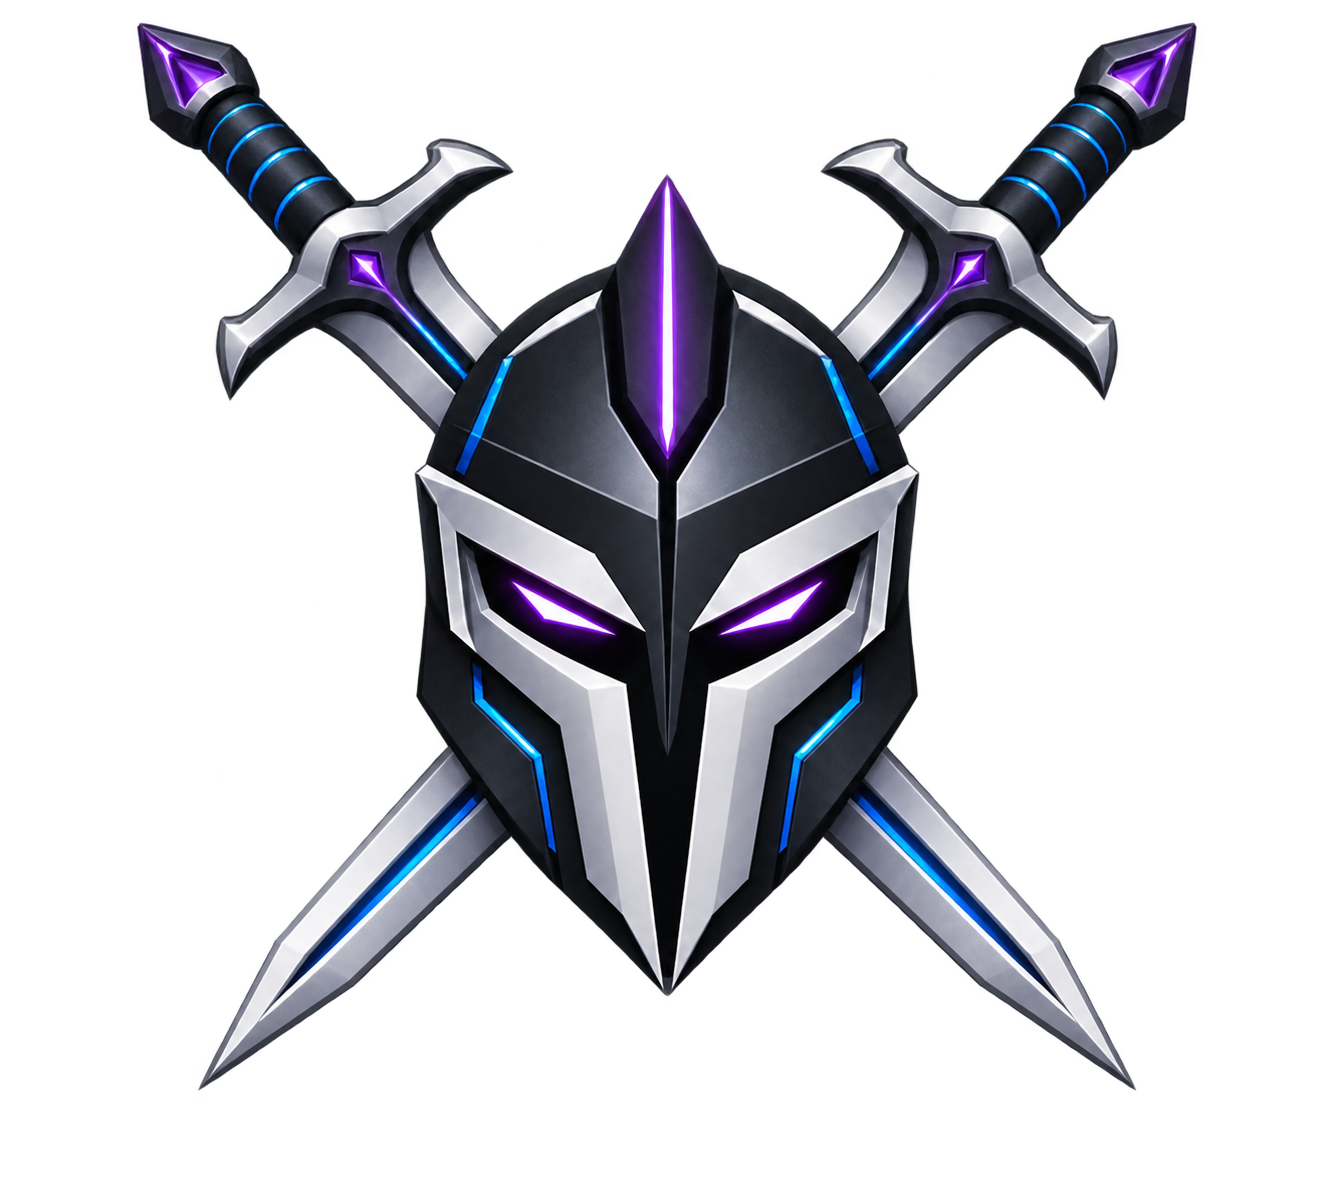
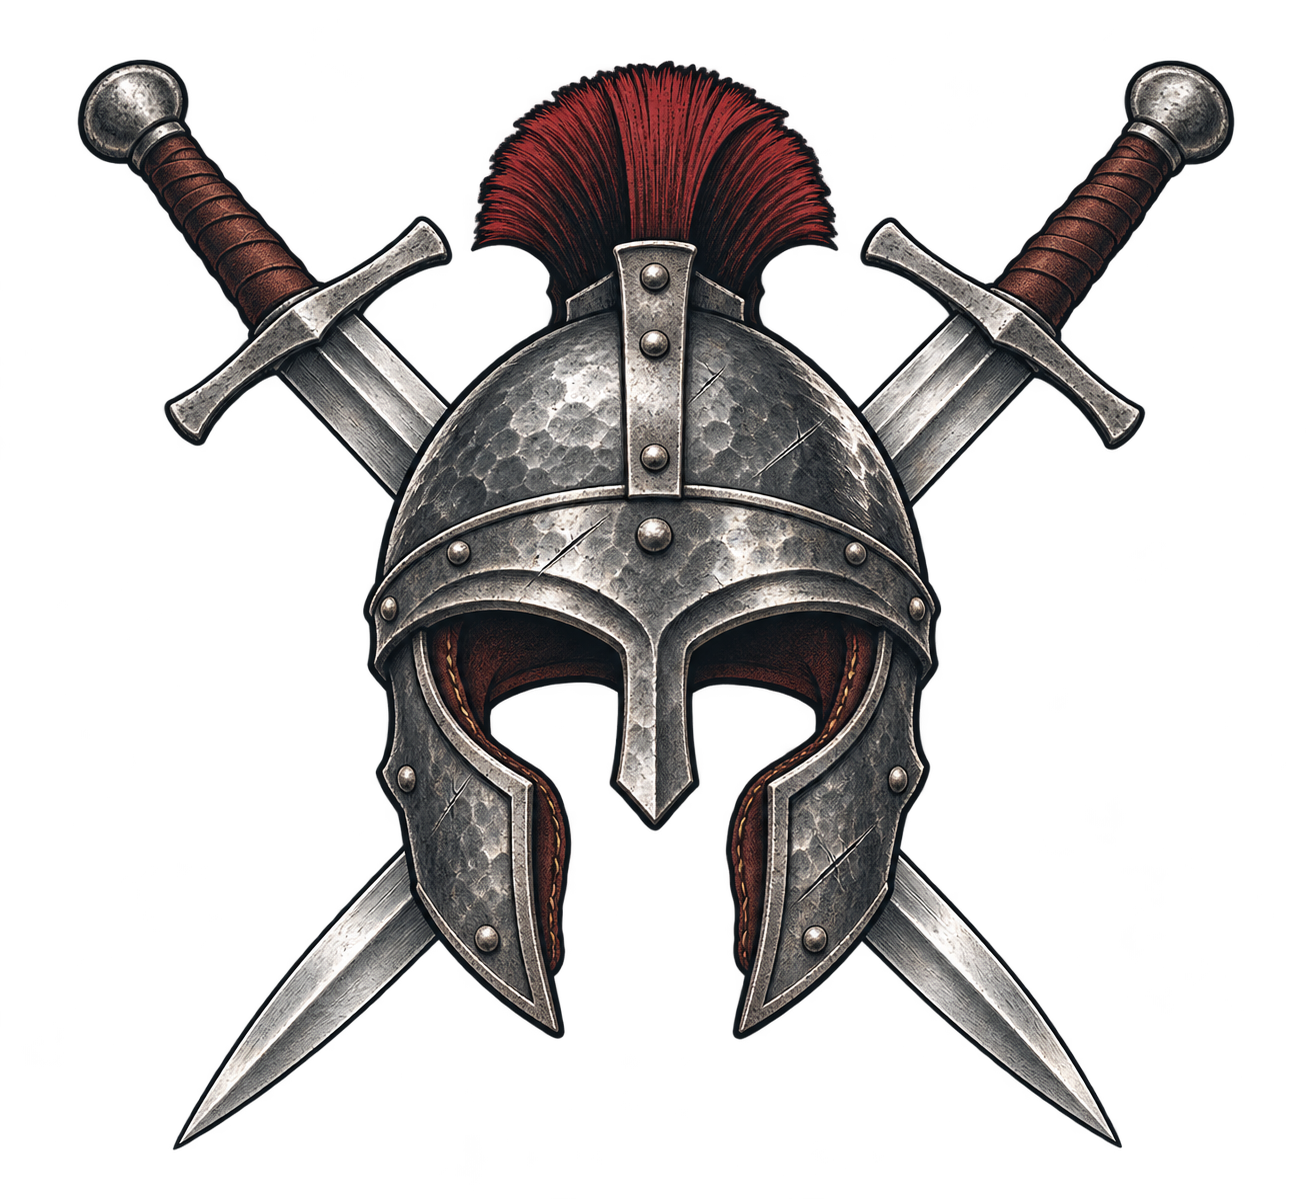
Replace GUARDIAN cyborg emblem with ancient steel crest

diff --git a/projects/fraudguard-community/demo/fraudguard/static/app.css b/projects/fraudguard-community/demo/fraudguard/static/app.css
@@ -1,8 +1,8 @@
 :root{color-scheme:dark;--void:#030014;--midnight:#060317;--carbon:#0d0a18;--steel:#24202f;--lilac:#f4f0ff;--ash:#a8a6b7;--violet:#9382ff;--violet-deep:#5046e4;--blue:#3f8cff;--red:#ff6f78;--amber:#ffbd70;--green:#62e6b2;--display:"Segoe UI Variable Display","Aptos Display","Inter",system-ui,sans-serif;--text:"Segoe UI Variable Text","Aptos","Inter",system-ui,sans-serif}
 *{box-sizing:border-box}html{background:var(--void)}body{margin:0;min-height:100vh;background:var(--void);color:var(--lilac);font:15px/1.55 var(--text);letter-spacing:-.015em;overflow-x:hidden}.sky{position:fixed;inset:0;pointer-events:none;background-image:radial-gradient(circle at 12% 18%,rgba(255,255,255,.7) 0 1px,transparent 1.5px),radial-gradient(circle at 71% 8%,rgba(147,130,255,.7) 0 1px,transparent 1.5px),radial-gradient(circle at 84% 41%,rgba(255,255,255,.45) 0 1px,transparent 1.5px),radial-gradient(circle at 31% 63%,rgba(63,140,255,.5) 0 1px,transparent 1.5px),radial-gradient(circle at 58% 77%,rgba(255,255,255,.35) 0 1px,transparent 1.5px);background-size:239px 251px,307px 281px,199px 227px,347px 313px,271px 293px;opacity:.3;mask-image:linear-gradient(to bottom,#000,transparent 72%)}
-.nav-wrap{position:relative;z-index:4;padding:22px 24px 0}.topbar{max-width:1180px;height:68px;margin:auto;padding:0 18px 0 12px;border:1px solid rgba(255,255,255,.09);border-radius:20px;background:rgba(6,3,23,.72);backdrop-filter:blur(20px);display:flex;align-items:center;justify-content:space-between;box-shadow:inset 0 -7px 20px rgba(147,130,255,.07)}.brand{display:flex;align-items:center;gap:11px;color:var(--lilac);text-decoration:none}.brand img{width:44px;height:44px;object-fit:contain;filter:drop-shadow(0 0 12px rgba(147,130,255,.28))}.brand strong{display:block;font:600 14px/1 var(--display);letter-spacing:.18em}.brand small{display:block;margin-top:5px;color:var(--ash);font-size:10px;letter-spacing:.08em}.privacy{display:flex;align-items:center;gap:8px;color:#d7d1e4;font-size:12px}.privacy i{width:7px;height:7px;border-radius:50%;background:var(--green);box-shadow:0 0 12px var(--green)}
+.nav-wrap{position:relative;z-index:4;padding:22px 24px 0}.topbar{max-width:1180px;height:68px;margin:auto;padding:0 18px 0 12px;border:1px solid rgba(255,255,255,.09);border-radius:20px;background:rgba(6,3,23,.72);backdrop-filter:blur(20px);display:flex;align-items:center;justify-content:space-between;box-shadow:inset 0 -7px 20px rgba(147,130,255,.07)}.brand{display:flex;align-items:center;gap:11px;color:var(--lilac);text-decoration:none}.brand img{width:44px;height:44px;object-fit:contain;filter:drop-shadow(0 0 12px rgba(156,48,62,.3))}.brand strong{display:block;font:600 14px/1 var(--display);letter-spacing:.18em}.brand small{display:block;margin-top:5px;color:var(--ash);font-size:10px;letter-spacing:.08em}.privacy{display:flex;align-items:center;gap:8px;color:#d7d1e4;font-size:12px}.privacy i{width:7px;height:7px;border-radius:50%;background:var(--green);box-shadow:0 0 12px var(--green)}
 .shell{position:relative;z-index:1;max-width:1180px;margin:auto;padding:70px 24px 110px}.hero{min-height:610px;display:grid;grid-template-columns:1.08fr .92fr;gap:54px;align-items:center}.hero-copy{position:relative;z-index:2}.eyebrow{margin:0 0 14px;color:#c1b6ff;font-size:11px;font-weight:600;letter-spacing:.16em;text-transform:uppercase}.eyebrow span{display:inline-block;width:28px;height:1px;margin:0 9px 3px 0;background:linear-gradient(90deg,transparent,var(--violet))}.hero h1{margin:0;max-width:720px;font:500 clamp(48px,6.7vw,86px)/.98 var(--display);letter-spacing:-.058em}.hero h1 em{font-style:normal;background:linear-gradient(90deg,#f3b9eb 0%,#a88fff 48%,#70b3ff 100%);-webkit-background-clip:text;background-clip:text;color:transparent}.lead{max-width:650px;margin:28px 0 24px;color:var(--ash);font-size:18px;line-height:1.6;letter-spacing:-.02em}.hero-notes{display:flex;gap:8px;flex-wrap:wrap}.hero-notes span{padding:7px 11px;border:1px solid rgba(147,130,255,.25);border-radius:999px;background:rgba(147,130,255,.06);color:#d9d2f7;font-size:11px;letter-spacing:.03em}
-.guardian-stage{position:relative;min-height:540px;border:1px solid rgba(255,255,255,.08);border-radius:28px;background:radial-gradient(circle at 50% 35%,rgba(80,70,228,.19),transparent 36%),linear-gradient(180deg,rgba(13,10,24,.72),rgba(0,0,0,.82));overflow:hidden;display:flex;flex-direction:column;align-items:center;justify-content:center;box-shadow:inset 0 0 70px rgba(147,130,255,.05)}.guardian-stage:before{content:"";position:absolute;inset:0;background:linear-gradient(110deg,transparent 35%,rgba(255,255,255,.035) 50%,transparent 65%);transform:translateX(-100%);animation:sweep 9s ease-in-out infinite}.guardian-stage img{position:relative;z-index:2;width:min(78%,390px);height:auto;filter:drop-shadow(0 28px 45px rgba(0,0,0,.55)) drop-shadow(0 0 18px rgba(147,130,255,.2))}.guardian-word{position:relative;z-index:2;margin-top:-18px;font:600 clamp(24px,3vw,40px)/1 var(--display);letter-spacing:.22em;text-indent:.22em;color:var(--lilac);text-shadow:0 0 30px rgba(147,130,255,.3)}.stage-meta{position:absolute;z-index:3;left:22px;right:22px;bottom:18px;display:flex;justify-content:space-between;color:#777189;font-size:9px;letter-spacing:.13em}.stage-meta strong{color:#b9afd9;font-weight:500}.orbit{position:absolute;left:50%;top:43%;border:1px solid rgba(147,130,255,.16);border-radius:50%;transform:translate(-50%,-50%) rotate(-13deg)}.orbit.one{width:78%;height:38%}.orbit.two{width:58%;height:62%;transform:translate(-50%,-50%) rotate(31deg)}@keyframes sweep{0%,70%{transform:translateX(-100%)}100%{transform:translateX(100%)}}
+.guardian-stage{position:relative;min-height:540px;border:1px solid rgba(255,255,255,.08);border-radius:28px;background:radial-gradient(circle at 50% 34%,rgba(132,39,52,.15),transparent 38%),linear-gradient(180deg,rgba(13,10,18,.78),rgba(0,0,0,.88));overflow:hidden;display:flex;flex-direction:column;align-items:center;justify-content:center;box-shadow:inset 0 0 70px rgba(255,255,255,.025)}.guardian-stage:before{content:"";position:absolute;inset:0;background:linear-gradient(110deg,transparent 35%,rgba(255,255,255,.025) 50%,transparent 65%)}.guardian-stage img{position:relative;z-index:2;width:min(80%,400px);height:auto;filter:drop-shadow(0 28px 45px rgba(0,0,0,.62)) drop-shadow(0 0 18px rgba(142,47,58,.2))}.guardian-word{position:relative;z-index:2;margin-top:-18px;font:600 clamp(24px,3vw,40px)/1 var(--display);letter-spacing:.22em;text-indent:.22em;color:var(--lilac);text-shadow:0 0 24px rgba(161,55,69,.22)}.stage-meta{position:absolute;z-index:3;left:22px;right:22px;bottom:18px;display:flex;justify-content:space-between;color:#777189;font-size:9px;letter-spacing:.13em}.stage-meta strong{color:#c3bdc8;font-weight:500}
 .section-intro{max-width:820px;margin:115px 0 30px}.section-intro h2{margin:0;font:500 clamp(34px,4.6vw,58px)/1.05 var(--display);letter-spacing:-.045em}.workspace{display:grid;grid-template-columns:1.15fr .85fr;gap:18px}.upload-card,.guide-card,.results,.login-card{position:relative;border:1px solid rgba(255,255,255,.08);border-radius:28px;background:rgba(6,3,23,.84);box-shadow:inset 0 1px rgba(255,255,255,.035);overflow:hidden}.upload-card,.guide-card{min-height:470px;padding:32px}.upload-card:after,.guide-card:after{content:"";position:absolute;left:12%;right:12%;bottom:0;height:1px;background:linear-gradient(90deg,transparent,var(--violet),transparent);opacity:.5}.card-top{display:flex;align-items:center;justify-content:space-between;margin-bottom:46px}.step{color:#817a96;font:500 12px/1 var(--display);letter-spacing:.12em}.status-dot{padding:5px 8px;border-radius:999px;background:rgba(98,230,178,.08);color:var(--green);font-size:9px;letter-spacing:.12em}.status-dot.violet{background:rgba(147,130,255,.09);color:#c9bfff}.upload-card h2,.guide-card h2{margin:0 0 10px;font:500 32px/1.1 var(--display);letter-spacing:-.035em}.upload-card>p,.guide-card>p{color:var(--ash)}.stack{display:grid;gap:11px;margin-top:25px}.file-control{font-size:12px;color:#c8c1d7}input[type=file],input[type=password]{width:100%;padding:13px 17px;border:1px solid #464052;border-radius:999px;background:rgba(255,255,255,.025);color:var(--lilac);font:14px var(--text);outline:none}input:focus{border-color:var(--violet);box-shadow:0 0 0 3px rgba(147,130,255,.12)}button,.button{display:inline-flex;align-items:center;justify-content:center;gap:12px;border:0;border-radius:999px;padding:12px 18px;background:#6256e7;color:#fff;font:500 14px var(--text);text-decoration:none;cursor:pointer;transition:.2s ease}button:hover,.button:hover{background:#7669f1;transform:translateY(-1px)}button.secondary,.secondary{margin-top:10px;border:1px solid #464052;background:transparent;color:var(--lilac)}button.secondary:hover,.secondary:hover{border-color:#71698a;background:rgba(255,255,255,.035)}details{margin-top:20px;color:#88839a}summary{cursor:pointer}code{display:block;margin-top:8px;color:#b8b1c8;white-space:normal}.guide-card ul{display:grid;gap:18px;margin:28px 0;padding:0;list-style:none}.guide-card li{padding-left:20px;border-left:1px solid #373144;color:var(--ash)}.guide-card li strong{display:block;color:var(--lilac);font-weight:500}.disclaimer{margin-top:26px;padding:15px;border-radius:12px;background:rgba(255,189,112,.06);color:#c8bda9!important;font-size:13px}
 .results{margin-top:20px;padding:32px}.section-heading{display:flex;align-items:center;justify-content:space-between;gap:20px}.section-heading h2{margin:0;font:500 42px/1 var(--display);letter-spacing:-.04em}.metrics{display:grid;grid-template-columns:repeat(4,1fr);gap:10px;margin:28px 0}.metrics article{padding:18px;border:1px solid rgba(255,255,255,.07);border-radius:16px;background:#090616}.metrics span{display:block;color:#878294;font-size:11px;letter-spacing:.08em;text-transform:uppercase}.metrics strong{display:block;margin-top:15px;font:500 34px/1 var(--display)}.risk-high strong{color:#ff9097}.risk-medium strong{color:#ffc781}.table-wrap{overflow:auto;border-top:1px solid rgba(255,255,255,.08)}table{border-collapse:collapse;width:100%;min-width:860px}th,td{padding:16px 12px;border-bottom:1px solid rgba(255,255,255,.07);text-align:left;vertical-align:top}th{color:#747083;font-size:10px;text-transform:uppercase;letter-spacing:.1em;font-weight:500}td{color:#d6d0e0}td small{display:block;color:#716c7c}.badge{display:inline-block;padding:5px 9px;border-radius:999px;font-size:11px;font-weight:500;white-space:nowrap}.badge.alto{background:rgba(255,111,120,.1);color:#ff969d}.badge.medio{background:rgba(255,189,112,.1);color:#ffce94}.badge.bajo{background:rgba(63,140,255,.1);color:#7eb5ff}.badge.sin-alerta{background:rgba(98,230,178,.09);color:#85ebc3}.reasons{margin:0;padding-left:17px}.notice{position:relative;z-index:3;margin-bottom:16px;padding:13px 16px;border:1px solid rgba(255,255,255,.08);border-radius:12px;background:#0b071b}.notice.success{border-color:rgba(98,230,178,.25);color:#9eeecf}.notice.error{border-color:rgba(255,111,120,.3);color:#ff9da3}.notice.warning{border-color:rgba(255,189,112,.3);color:#ffd09a}
 .login-card{max-width:520px;margin:50px auto;padding:38px;text-align:center}.login-emblem{width:190px;height:auto;filter:drop-shadow(0 0 28px rgba(147,130,255,.22))}.login-card h1{margin:8px 0;font:500 38px/1.08 var(--display);letter-spacing:-.04em}.login-card p{color:var(--ash)}.login-card .stack{text-align:left}footer{position:relative;z-index:1;max-width:1132px;margin:0 auto 30px;padding:22px 0;border-top:1px solid rgba(255,255,255,.07);display:flex;justify-content:space-between;color:#5f5a6d;font-size:9px;letter-spacing:.16em}

diff --git a/projects/fraudguard-community/demo/fraudguard/templates/index.html b/projects/fraudguard-community/demo/fraudguard/templates/index.html
@@ -8,7 +8,6 @@
     <div class="hero-notes"><span>Sin nube</span><span>Sin caja negra</span><span>Datos bajo tu control</span></div>
   </div>
   <div class="guardian-stage" aria-label="Guardian, motor de inteligencia antifraude">
-    <div class="orbit one"></div><div class="orbit two"></div>
     <img src="{{ url_for('static', filename='guardian-emblem.png') }}" alt="Casco Guardian con dos espadas cruzadas">
     <div class="guardian-word">GUARDIAN</div>
     <div class="stage-meta"><span>COMMUNITY EDITION</span><strong>{{ 'RED EMPRESARIAL' if lan_mode else 'SOLO ESTA PC' }}</strong></div>
